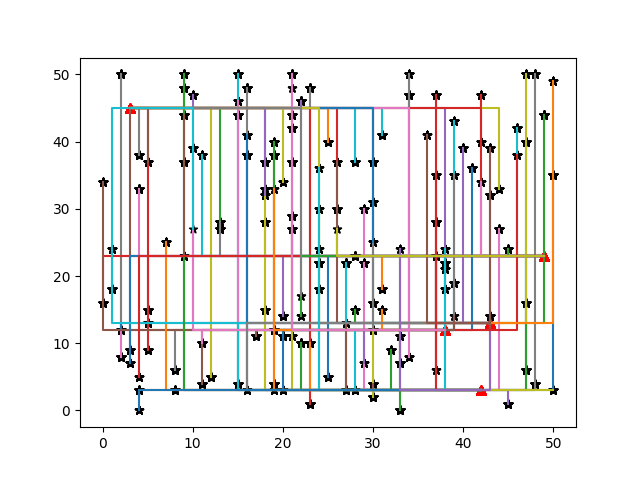
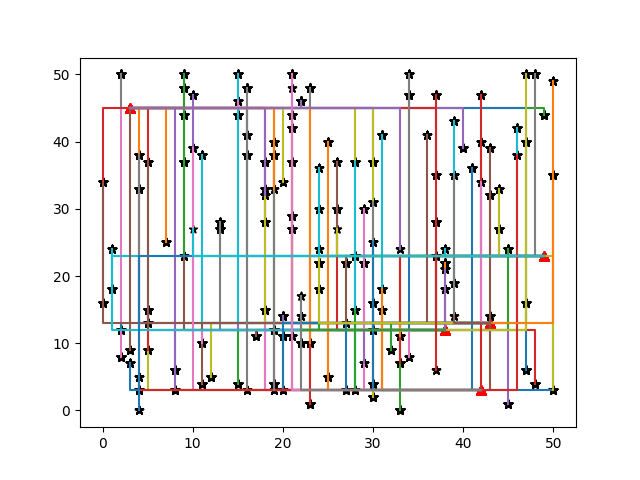
updated capacity calculation

Changed region(s): [[0.1562, 0.2188, 0.875, 0.8438], [0.6875, 0.2188, 0.8438, 0.25]]

diff --git a/code/classes/battery.py b/code/classes/battery.py
@@ -1,13 +1,13 @@
 class Battery:
 
-    def __init__(self, id, x, y, capaciteit):
+    def __init__(self, id, x, y, capacity):
         self.id = int(id)
         self.x = int(x)
         self.y = int(y)
-        self.capaciteit = float(capaciteit)
+        self.capacity = capacity
 
     def __str__(self):
-        return f"Battery:{self.id}\nx: {self.x}\ny: {self.y}\ncapaciteit: {self.capaciteit}\n"       
+        return f"Battery:{self.id}\nx: {self.x}\ny: {self.y}\ncapaciteit: {self.capacity}\n"       
 
     def get_id(self):
         return self.id
@@ -16,7 +16,7 @@ class Battery:
         return self.x, self.y
 
     def get_cap(self):
-        return self.capaciteit
+        return self.capacity
 
     # set mothodes
     def set_coord(self, x, y):

diff --git a/code/classes/plot.py b/code/classes/plot.py
@@ -16,6 +16,8 @@ houses = reader.load_houses()
 costs_shared = 0
 dict= {}
 
+battery.capacity = 1507.00
+
 # print houses and batteries
 house_locs_x = []
 house_locs_y = []
@@ -36,6 +38,14 @@ for house in houses:
 
     rand_battery = random.choice(batteries)
 
+    if battery.capacity <= house.maxoutput:
+        while battery.capacity <= house.maxoutput:
+            rand_battery = random.choice(batteries)
+
+    else:
+        battery.capacity = battery.capacity - house.maxoutput
+        print(battery.capacity)
+    
     house_x = int(house.x) 
     house_y = int(house.y)
 
@@ -64,7 +74,8 @@ for house in houses:
 
     plt.plot(x,y)
 
+    
 plt.savefig("randomplot.png")
 
-print(dict)
+# print(dict)
 print(costs_shared)
